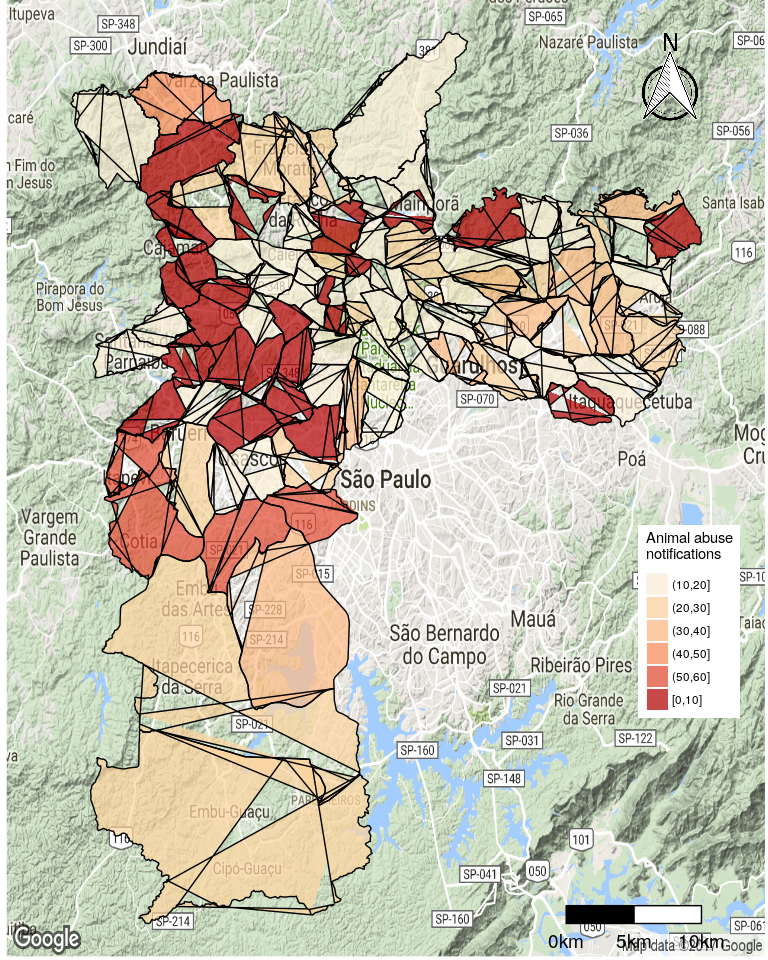
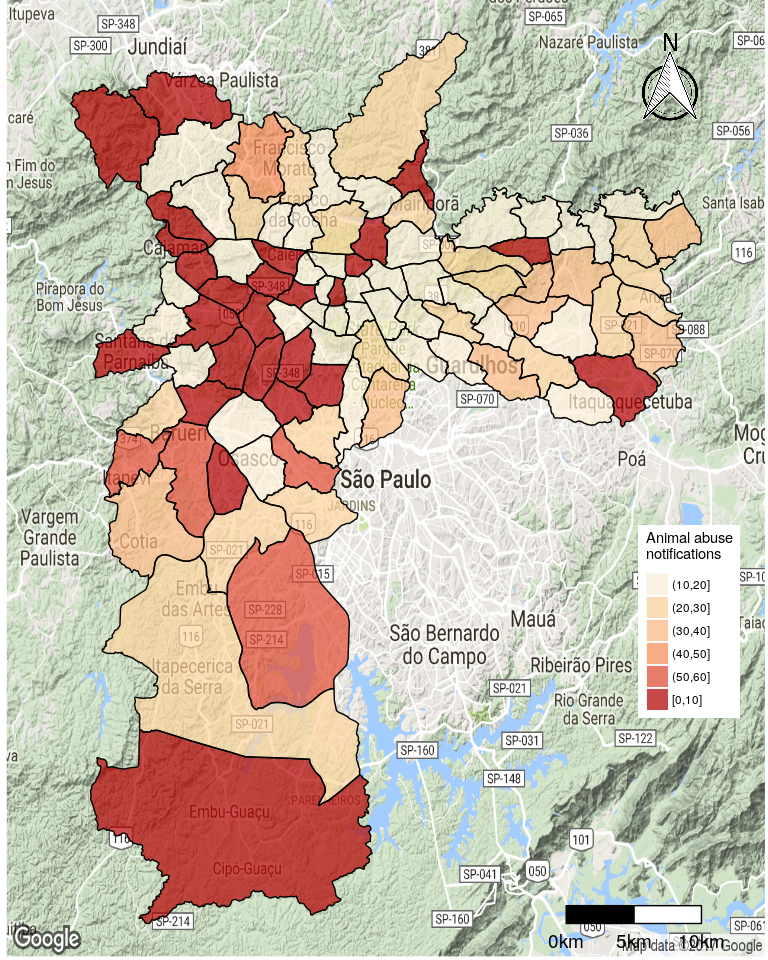
Update

Changed region(s): [[0.0938, 0.0312, 0.9062, 0.9688]]

diff --git a/README.md b/README.md
@@ -77,13 +77,18 @@ The packages **ggsn** and **ggmap** can be used together:
 ``` r
 library(ggmap)
 library(sp)
+library(rgdal)
 library(broom)
 sp <- get_googlemap("São Paulo")
 bb <- c(st_bbox(map) * matrix(rep(c(1.001, 0.999), e = 2), ncol = 2))
 nms <- names(attr(sp, "bb"))
 attr(sp, "bb")[1, ] <- bb[c(2, 1, 4, 3)]
 
-map_sp <- as(map, "Spatial")
+map_sp <- readOGR(dsn, "sp")
+#> OGR data source with driver: ESRI Shapefile 
+#> Source: "/home/oswaldo/R/x86_64-pc-linux-gnu-library/3.4/ggsn/extdata", layer: "sp"
+#> with 96 features
+#> It has 2 fields
 map_sp@data$id <- 0:(nrow(map_sp@data) - 1)
 map_sp <- merge(tidy(map_sp), map_sp, by = 'id')
 
